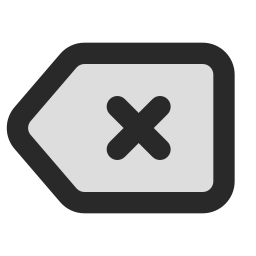
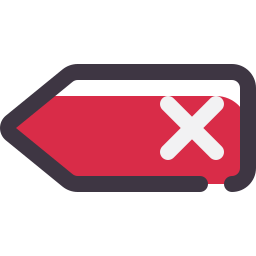
commit: small changes
- configure the pom.xml and Dockerfile to deploy the application to a server.

- in Main.java, if the web application is deployed on localhost, it can be opened in the browser from port 8080 as before, but I also configured it to receive external requests when launched.

- add the page footer with a direct link to the project repository.

- added `white-space: nowrap` to the container.

- added the functionality to switch the page from dark to light mode.

- in the Bt2 and Bt2r containers, I modified `box-shadow` because the buttons looked bad in dark mode.

- modified README.md

diff --git a/SimuladorTablasVerdad/src/main/resources/static/style.css b/SimuladorTablasVerdad/src/main/resources/static/style.css
@@ -15,8 +15,15 @@ body {
     line-height: 20px;
     font-size: 13px;
     color: #4b4b4b;
+    display: flex;
+    flex-direction: column;
+    margin: 0;
+    background-color: var(--bg-color);
+    color: var(--text-color);
+    transition: background-color 0.3s ease, color 0.3s ease;
 }
-
+main {flex: 1;}
+.main-header h1 {white-space: nowrap; font-size: clamp(1.4rem, 4vw, 2.2rem);}
 /* Tipografias */
 h1 { color: #004884; font-family: 'Montserrat', sans-serif; line-height: 48px; font-size: 40px; font-weight: 600; }
 h2 { color: #004884; font-family: 'Montserrat', sans-serif; line-height: 44px; font-size: 32px; font-weight: 600; }
@@ -57,12 +64,12 @@ td { border-top: 1px solid #ccc; padding: 6px; }
 .alt_red { color: red; }
 
 /* Botones*/
-.Bt2 {background-color: #e0e0e0;border: none;border-radius: 10px;padding: 8px;cursor: pointer;box-shadow: 3px 3px 6px #bebebe, -3px -3px 6px #ffffff;transition: all 0.2s ease;display: flex;align-items: center;justify-content: center;margin: 4px;min-width: 40px;height: 40px;font-size: 15px;font-weight: 600;}
+.Bt2 {background-color: var(--btn-bg); color: var(--btn-text); border: none; border-radius: 10px; padding: 8px; cursor: pointer; box-shadow: 3px 3px 6px var(--shadow-dark), -3px -3px 6px var(--shadow-light); transition: all 0.2s ease; display: flex; align-items: center; justify-content: center; margin: 4px; min-width: 40px; height: 40px; font-size: 15px; font-weight: 600;}
 .Bt2:active { box-shadow: inset 3px 3px 6px #bebebe, inset -3px -3px 6px #ffffff; transform: scale(0.95); }
 .Bt2:hover { background: #004884; color: #EFF3F5; }
 
 /* Botones de Accion (Borrar, Generar, Retroceder) - Separacion vertical agregada */
-.Bt2r {background-color: #ffeded;border: none;border-radius: 10px;padding: 8px;cursor: pointer;box-shadow: 3px 3px 6px #bebebe, -3px -3px 6px #ffffff;transition: all 0.2s ease;display: flex;align-items: center;justify-content: center;margin: 15px 4px 5px 4px !important; /* Margin-top aumentado para alejarse de los símbolos */min-width: 42px;height: 42px;font-size: 15px;font-weight: 600;}
+.Bt2r {background-color: #ffeded;border: none;border-radius: 10px;padding: 8px;cursor: pointer;box-shadow: 3px 3px 6px var(--shadow-dark), -3px -3px 6px var(--shadow-light);transition: all 0.2s ease;display: flex;align-items: center;justify-content: center;margin: 15px 4px 5px 4px !important; /* Margin-top aumentado para alejarse de los símbolos */min-width: 42px;height: 42px;font-size: 15px;font-weight: 600;}
 .Bt2r:active { box-shadow: inset 3px 3px 6px #d1bcbc, inset -3px -3px 6px #ffffff; transform: scale(0.95); }
 .Bt2r:hover { background: #be204a; color: #EFF3F5; }
 .Bt4b {background: #1b4591;padding: 0 22px;border: 0;border-radius: 8px;color: #fff;font-family: 'Montserrat', sans-serif;font-size: 15px;font-weight: 600;text-shadow: 1px 1px 1px #000;height: 42px;display: flex;align-items: center;justify-content: center;cursor: pointer;margin: 15px 4px 5px 4px !important; /* Margin-top aumentado para alejarse de los símbolos */box-shadow: 2px 3px 6px rgba(0,0,0,0.15);}
@@ -98,13 +105,62 @@ td { border-top: 1px solid #ccc; padding: 6px; }
 .Img30x30 { width: 30px; height: 30px; }
 .Img40x40 { width: 40px; height: 40px; }
 .Img45x45 { width: 45px; height: 45px; }
+.footer-credits {text-align: center; margin-top: 2rem; padding: 1.5rem 0; font-size: 0.85rem; color: #666;width: 100%}
+.footer-credits p {margin: 0.2rem 0;}
+.author-link {color: inherit; text-decoration: none; font-weight: 600; transition: color 0.2s ease;}
+.author-link:hover {color: #007bff;}
+.copyright {font-size: 0.75rem; opacity: 0.7;}
+/* Variables para Modo Claro (por defecto) */
+:root {
+    --bg-color: #ffffff;
+    --text-color: #1a1a1a;
+    --card-bg: #f8f9fa;
+    --border-color: #e0e0e0;
+    --btn-bg: #e9ecef;
+    --btn-text: #212529;
+    --header-color: #004b87;
+}
 
+/* Variables para Modo Oscuro */
+body.dark-mode {
+    --bg-color: #121212;
+    --text-color: #e0e0e0;
+    --card-bg: #1e1e1e;
+    --border-color: #333333;
+    --btn-bg: #2d2d2d;
+    --btn-text: #f8f9fa;
+    --header-color: #4da3ff;
+}
+
+.main-header h1 {color: var(--header-color);}
+.app-input {background-color: var(--card-bg); color: var(--text-color); border: 1px solid var(--border-color);}
+
+/* Botones del teclado virtual */
+
+/* Botón del foco */
+.theme-toggle-container {
+    text-align: center;
+    padding-bottom: 1.5rem;
+}
+
+.theme-btn {
+    background: transparent;
+    border: none;
+    font-size: 1.2rem; /* Tamaño pequeñito */
+    cursor: pointer;
+    padding: 6px 10px;
+    border-radius: 50%;
+    transition: transform 0.2s ease, opacity 0.2s ease;
+}
+
+.theme-btn:hover {
+    transform: scale(1.15);
+}
 /* Media Queries */
 @media (max-width: 1200px) { .Contptc, .Contptl { width: 95%; }}
 @media (max-width: 768px) { input, input[type="text"], #expressionInput {width: 95% !important;font-size: 16px !important;}}
 /* Ajuste automatico para pantallas pequeñas sin desbordamiento */
 @media (max-width: 650px) { input, input[type="text"], #expressionInput {width: 95% !important;font-size: 16px !important;height: 42px !important;}}
-
 /* Mantiene el contenedor al 100% */
 .Contvcc, .Contptc, form {width: 100% !important;}
 @media (max-width: 576px) { h1 { font-size: 24px; line-height: 32px; text-align: center; }}

diff --git a/SimuladorTablasVerdad/src/main/resources/static/index.html b/SimuladorTablasVerdad/src/main/resources/static/index.html
@@ -60,9 +60,18 @@
             <!-- La tabla generada se renderiza aqui -->
         </div>
     </div>
-
 </main>
-
+<!--Pie de pagina-->
+<footer class="footer-credits">
+    <p>Creado por <a href="https://github.com/juovvar/simulador" target="_blank" rel="noopener noreferrer" class="author-link">juovvar</a></p>
+    <p class="copyright">Todos los derechos reservados &copy; 2026</p>
+</footer>
+<!-- Cambio de tema (Claro / Oscuro) -->
+<div class="theme-toggle-container">
+    <button id="themeToggleBtn" class="theme-btn" aria-label="Cambiar tema">
+        <span id="themeIcon">💡</span> <!-- Foco encendido por defecto -->
+    </button>
+</div>
 <script>
     const input = document.getElementById('expressionInput');
 
@@ -136,6 +145,29 @@
 
         container.innerHTML = html;
     }
+    const themeToggleBtn = document.getElementById('themeToggleBtn');
+    const themeIcon = document.getElementById('themeIcon');
+
+    // Revisa si el usuario ya tenía guardado un tema previamente
+    const savedTheme = localStorage.getItem('theme');
+    if (savedTheme === 'dark') {
+        document.body.classList.add('dark-mode');
+        themeIcon.textContent = '🔌'; // Foco apagado/desenchufado para modo oscuro
+    } else {
+        themeIcon.textContent = '💡'; // Foco encendido para modo claro
+    }
+
+    themeToggleBtn.addEventListener('click', () => {
+        document.body.classList.toggle('dark-mode');
+
+        const isDarkMode = document.body.classList.contains('dark-mode');
+
+        // Cambia el icono del foco segun el estado
+        themeIcon.textContent = isDarkMode ? '🔌' : '💡';
+
+        // Guarda la preferencia
+        localStorage.setItem('theme', isDarkMode ? 'dark' : 'light');
+    });
 </script>
 </body>
 </html>

diff --git a/SimuladorTablasVerdad/src/main/java/com/simulador/Main.java b/SimuladorTablasVerdad/src/main/java/com/simulador/Main.java
@@ -9,26 +9,24 @@ import java.util.concurrent.Executors;
 
 public class Main {
 
-    private static final int PORT = 8080;
-
     public static void main(String[] args) {
         try {
-            // Crea el servidor en el puerto 8080
-            HttpServer server = HttpServer.create(new InetSocketAddress(PORT), 0);
+            String portEnv = System.getenv("PORT");
+            int port = (portEnv != null && !portEnv.isEmpty()) ? Integer.parseInt(portEnv) : 8080;
+
+            // Esto permite trafico externo al simulador
+            HttpServer server = HttpServer.create(new InetSocketAddress("0.0.0.0", port), 0);
 
             // Enruta las peticiones
             server.createContext("/", new StaticFileHandler());
             server.createContext("/api/evaluar", new TruthTableHandler());
 
-            // Asigna un executor con pool de hilos para gestionar peticiones concurrentes
+            // Pool de hilos para gestionar peticiones concurrentes
             server.setExecutor(Executors.newFixedThreadPool(10));
 
             server.start();
 
-            System.out.println("==================================================");
-            System.out.println(" Servidor iniciado exitosamente.");
-            System.out.println(" Abre tu navegador en: http://localhost:" + PORT);
-            System.out.println("==================================================");
+            System.out.println(" Servidor iniciado exitosamente en el puerto: " + port);
 
         } catch (IOException e) {
             System.err.println("Error al iniciar el servidor HTTP: " + e.getMessage());

diff --git a/README.md b/README.md
@@ -1,7 +1,8 @@
 # Simulador de Tablas de Verdad
 
-Aplicación web de un simulador de tablas de verdad. El proyecto está hecho en **Java puro** (sin Spring) utilizando un servidor HTTP embebido nativo y esta maquetado con **HTML/CSS puro**.
+Aplicación web de un simulador de tablas de verdad. El proyecto está desarrollado en **Java puro** utilizando el servidor HTTP embebido nativo del JDK y una interfaz ligera maquetada con **HTML5, CSS3 vanilla y JavaScript (ES6+)**.
 
+---
 
 ## Tecnologías Utilizadas
 
@@ -14,7 +15,7 @@ Aplicación web de un simulador de tablas de verdad. El proyecto está hecho en 
 
 ## Estructura del Proyecto
 
-El proyecto sigue la convención estándar de carpetas de Maven:
+El proyecto sigue la convención estándar de Maven:
 
 ```text
 simulador-tablas-verdad/
@@ -23,15 +24,16 @@ simulador-tablas-verdad/
     └── main/
         ├── java/
         │   └── com/
-        │        └── simulador/
-        │            ├── Main.java                 # Punto de entrada y servidor HTTP
-        │            ├── handler/
-        │            │   └── StaticFileHandler.java # Servidor de archivos estaticos (HTML, CSS, JS)
-        │            └── logic/
-        │                   └── Evaluator.java         # Motor de logica formal y evaluacion
+        │       └── simulador/
+        │           ├── Main.java                 # Punto de entrada y configuración del HttpServer
+        │           ├── handler/
+        │           │   ├── StaticFileHandler.java # Servidor de archivos estáticos (HTML, CSS, JS, PNG)
+        │           │   └── TruthTableHandler.java # Endpoint REST API que procesa la petición JSON
+        │           └── logic/
+        │               ├── Evaluator.java         # Motor de lógica formal, RPN y validaciones
+        │               └── TableGenerator.java    # Generador combinatorio y formateador de JSON
         └── resources/
             └── static/
-                ├── index.html                        # Interfaz de usuario de una sola pagina
-                ├── style.css                         # Hoja de estilos principal
-                └── img/                              # Iconos
-
+                ├── index.html                 # Interfaz de usuario
+                ├── style.css                  # Contenedores
+                └── img/                       # Iconos
